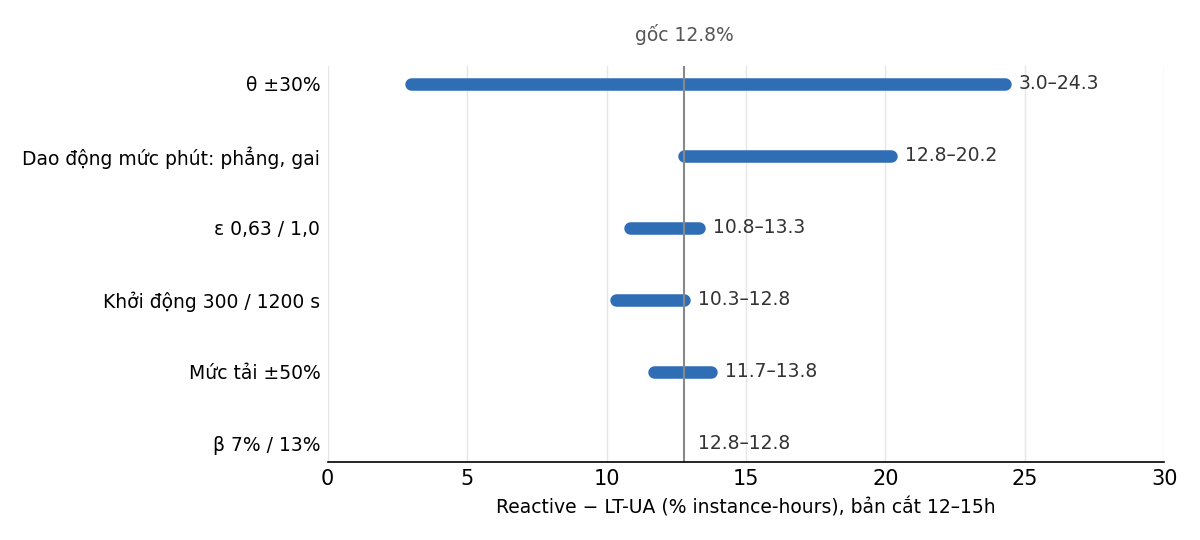
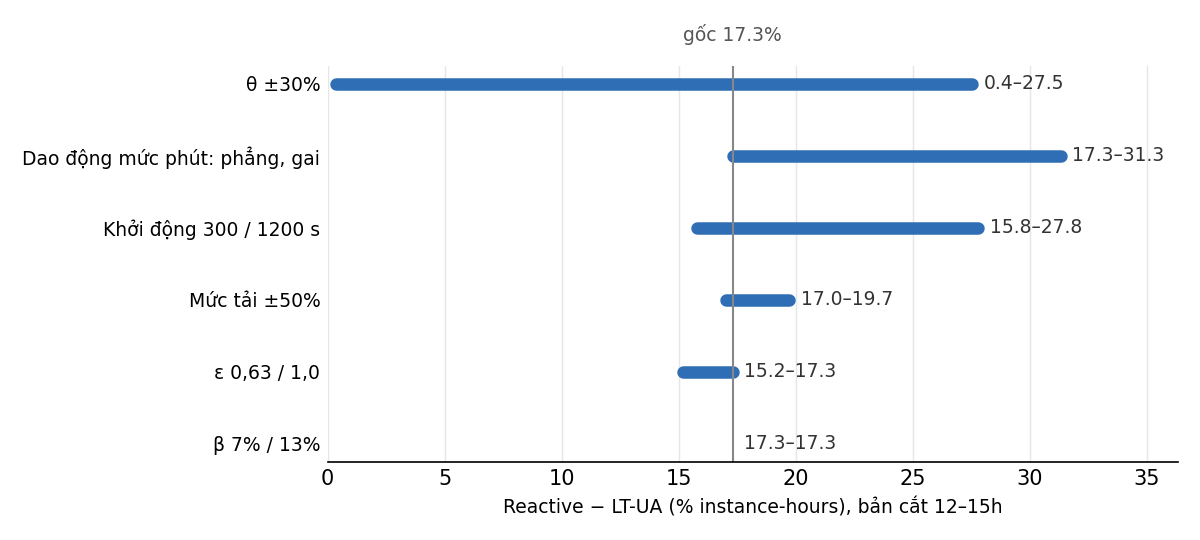
Dở dang, tiếp tục sau: sens/sens2 v2.1, D11a, D33, luật 10, README bước 1
- SENSITIVITY.md/.csv/.png theo sens/sens2 v2.1 (31 bài, 0 lỗi); plot_sensitivity.py: trục x tự giãn
- RESULTS: §7.2.7 bản cắt, Phụ lục A khởi động 1200 s, Hạn chế 8
- DECISIONS: D33 (luật khởi động week), D11a (bằng chứng D11 theo v2.1, D11 giữ nguyên)
- CLAUDE.md: luật 10 (file .md mới ở gốc phải được duyệt)
- README: bước 1 về main (PR #2 đã gộp)

Dở dang: doi_chieu chưa chạy lại sau sửa (lần gần nhất 828 số, 0 sai);
dọn ổ và chuyển file .md chờ duyệt. Chưa push, để chung PR tài liệu thứ Tư.

diff --git a/experiments/plot_sensitivity.py b/experiments/plot_sensitivity.py
@@ -19,7 +19,7 @@ ax.axvline(base, color="#888888", lw=1)
 ax.text(base, len(rows) - 0.4, f"gốc {base:.1f}%", ha="center", fontsize=9, color="#555555")
 ax.set_yticks(range(len(rows)), [r[0] for r in rows], fontsize=9)
 ax.set_xlabel("Reactive − LT-UA (% instance-hours), bản cắt 12–15h", fontsize=9)
-ax.set_xlim(0, 30)
+ax.set_xlim(0, max(30, max(r[2] for r in rows) + 5))
 ax.grid(axis="x", color="#E6E6E6", lw=0.7)
 ax.set_axisbelow(True)
 for s in ("top", "right", "left"):

diff --git a/SENSITIVITY.md b/SENSITIVITY.md
@@ -1,9 +1,9 @@
 # SENSITIVITY – Pha 3
 
-**Số v2 (`D:/SageServe_results/v2/sens`, `.../sens2`), chưa có bản v2.1:** 21 bài `sens` và 10 bài `sens2` đang chạy lại v2.1 — PR sau.
+**Số v2.1** (code tag `v2.1-fix`, 2c70582; kết quả ở `E:/SageServe_results_v21/sens`, `.../sens2`; chạy xong 8/11/2026, 31 bài, 0 lỗi). Số v2 cũ có trong git history của file này.
 
 Bản cắt 12–15h của `composed_day_3regions_v2`, A100, θ `data/theta_tps_v2.csv`, bỏ giờ đầu, mỗi lần đổi một yếu tố. Số đầy đủ: `SENSITIVITY.csv`.
-Chạy: `python experiments/make_sens_traces.py` (sinh `traces/sens_*.csv`; sha256 sens_flat 9d90fa80…, sens_spike 68846dae…, sens_rate50 7e1316bc…, sens_rate150 13f5f69c…, sens_burst_in d2d3372c…, sens_burst_out 61afbf20…), rồi `PY=<python> bash experiments/run_sens.sh sens` (21 bài, ~3 giờ mô phỏng mỗi bài; biến `SAGE_SPIN_UP`, `SAGE_WAIT`, `SAGE_BETA` đặt trong script). Phân tích: `python experiments/analyze_sensitivity.py D:/SageServe_results/v2/sens --out SENSITIVITY.csv`; biểu đồ: `python experiments/plot_sensitivity.py SENSITIVITY.csv SENSITIVITY.png`.
+Chạy: `python experiments/make_sens_traces.py` (sinh `traces/sens_*.csv`; sha256 sens_flat 9d90fa80…, sens_spike 68846dae…, sens_rate50 7e1316bc…, sens_rate150 13f5f69c…, sens_burst_in d2d3372c…, sens_burst_out 61afbf20…), rồi `PY=<python> bash experiments/run_sens.sh sens E:/SageServe_results_v21/sens` (21 bài, ~3 giờ mô phỏng mỗi bài; biến `SAGE_SPIN_UP`, `SAGE_WAIT`, `SAGE_BETA` đặt trong script). Phân tích (chạy ở gốc repo): `python experiments/analyze_sensitivity.py E:/SageServe_results_v21/sens --out SENSITIVITY.csv`; biểu đồ: `python experiments/plot_sensitivity.py SENSITIVITY.csv SENSITIVITY.png`.
 
 ![Độ nhạy](SENSITIVITY.png)
 
@@ -11,40 +11,53 @@ Chạy: `python experiments/make_sens_traces.py` (sinh `traces/sens_*.csv`; sha2
 
 | Yếu tố | Mức | Reactive IH | LT-UA IH | Khoảng cách tổng | Llama-2 | Bloom | Lãng phí R → U (instance-hours) |
 |---|---|---:|---:|---:|---:|---:|---:|
-| Gốc | | 191,50 | 167,00 | **12,8%** | 12,9% | 15,7% | 2,92 → 2,18 (−25%) |
-| d) θ | −30% | 191,50 | 185,75 | **3,0%** | 5,2% | 2,8% | 2,92 → 2,67 (−9%) |
-| d) θ | +30% | 191,50 | 145,00 | **24,3%** | 17,1% | 32,9% | 2,92 → 1,02 (−65%) |
-| a) Dao động phút | phẳng | 195,00 | 157,25 | 19,4% | 22,2% | 22,6% | 2,43 → 1,65 (−32%) |
-| a) Dao động phút | gai 1,77× | 204,25 | 163,00 | 20,2% | 8,6% | 29,0% | 4,04 → 1,78 (−56%) |
-| b) Khởi động | 300 s | 186,25 | 167,00 | 10,3% | 6,2% | 14,4% | 1,40 → 1,18 (−16%) |
-| b) Khởi động | 1200 s | 184,75 | 164,00 | 11,2% | 5,1% | 16,3% | 5,35 → 4,18 (−22%) |
-| c) Cooldown Reactive | chờ instance sẵn sàng | 182,50 | 167,00 | 8,5% | – | – | 1,81 → 2,18 |
-| d) ε | 0,63 | 191,50 | 166,00 | 13,3% | 17,6% | 14,6% | 2,92 → 0,86 (−70%) |
-| d) ε | 1,0 | 191,50 | 170,75 | 10,8% | 9,8% | 13,8% | 2,92 → 2,80 (−4%) |
-| d) β | 7% / 13% | 191,50 | 167,00 | 12,8% | 12,9% | 15,7% | không đổi |
-| e) Mức tải | ×0,5 | 114,50 | 98,75 | 13,8% | 22,0% | 16,2% | 0,66 → 0,20 (−70%) |
-| e) Mức tải | ×1,5 | 265,00 | 234,00 | 11,7% | 5,3% | 15,9% | 4,08 → 4,25 (+4%) |
+| Gốc | | 200,75 | 166,00 | **17,3%** | 15,9% | 21,6% | 3,25 → 2,19 (−33%) |
+| d) θ | −30% | 200,75 | 200,00 | **0,4%** | 2,1% | −0,2% | 3,25 → 3,75 (+16%) |
+| d) θ | +30% | 200,75 | 145,50 | **27,5%** | 16,9% | 37,6% | 3,25 → 1,01 (−69%) |
+| a) Dao động phút | phẳng | 227,50 | 156,25 | 31,3% | 21,4% | 40,1% | 4,66 → 1,69 (−64%) |
+| a) Dao động phút | gai 1,77× | 236,50 | 162,50 | 31,3% | 16,4% | 41,8% | 5,11 → 1,85 (−64%) |
+| b) Khởi động | 300 s | 197,75 | 166,50 | 15,8% | 11,7% | 20,8% | 1,66 → 1,22 (−26%) |
+| b) Khởi động | 1200 s | 225,75 | 163,00 | 27,8% | 12,8% | 37,4% | 9,35 → 4,22 (−55%) |
+| c) Cooldown Reactive | chờ instance sẵn sàng | 192,00 | 166,00 | 13,5% | – | – | 2,18 → 2,19 |
+| d) ε | 0,63 | 200,75 | 168,50 | 16,1% | 11,8% | 21,2% | 3,25 → 0,91 (−72%) |
+| d) ε | 1,0 | 200,75 | 170,25 | 15,2% | 11,8% | 19,8% | 3,25 → 2,81 (−13%) |
+| d) β | 7% / 13% | 200,75 | 166,00 | 17,3% | 15,9% | 21,6% | không đổi |
+| e) Mức tải | ×0,5 | 121,75 | 97,75 | 19,7% | 22,7% | 26,4% | 1,31 → 0,20 (−85%) |
+| e) Mức tải | ×1,5 | 283,50 | 235,25 | 17,0% | 10,0% | 22,1% | 1,88 → 4,23 (+125%) |
+
+Dòng c) chỉ chạy Reactive. LT-UA lấy từ dòng gốc vì LT-UA không dùng cooldown Reactive.
 
 ## Kết luận
 
-- **θ chi phối:** dao động 21,3 điểm, gấp gần 3 lần yếu tố đứng sau. Dao động phút 7,4 điểm và không đơn điệu; cooldown 4,3 điểm; ε, thời gian khởi động và mức tải mỗi yếu tố dưới 3 điểm; β không đổi kết quả vì phần cộng thêm rất nhỏ so với đỉnh dự báo (ví dụ ±10 TPM trên 122.000 TPM).
-- **Theo luật Pha 3:** (a) không chi phối và trace đạt T6 nên **không sửa trace**. θ chi phối nên kiểm lại Pha 2: `benchmark_theta.py` đúng định nghĩa §2.1 nhưng bài báo không cho mức latency mục tiêu, tải đo hay bảng θ. **Loại C**, giữ θ đo được, không chỉnh để tăng tiết kiệm.
-- **Giới hạn:** bản cắt 12–15h không có giờ 5–9 khó nhất nên SLA gần như không đổi ở mọi mức θ. Không suy từ đây rằng θ +30% an toàn: θ đo theo tỉ lệ cả ngày (Bloom 528, Llama-2 1315, cao hơn 37–35% so với v2) từng cho TTFT P95 Llama-2 7073 s trên trace v1.
+- **θ vẫn chi phối:** khoảng cách dao động 27,1 điểm, gần gấp 2 yếu tố đứng sau (v2: 21,3 điểm, gần gấp 3 lần). Hai yếu tố đứng sau:
+  - Dao động phút: 14,0 điểm. Không đơn điệu: cả dạng phẳng lẫn dạng gai đều cho khoảng cách lớn hơn gốc.
+  - Thời gian khởi động: 12,0 điểm (v2: dưới 3 điểm).
+
+  Cooldown 3,8 điểm; mức tải 2,7; ε 2,1. β không đổi kết quả vì phần cộng thêm rất nhỏ so với đỉnh dự báo (ví dụ ±10 TPM trên 122.000 TPM).
+- **Đổi so với v2:** sửa cooldown (K1, D30) làm Reactive co giãn nhiều hơn: IH gốc 191,50 → 200,75, LT-UA gần như không đổi (167,00 → 166,00). Vì vậy mọi khoảng cách tăng. Hai yếu tố làm Reactive tăng giờ máy mạnh nhất, khởi động 1200 s và dạng phút phẳng/gai, nay tăng khoảng cách nhiều hơn hẳn trước.
+- **Theo luật Pha 3 (D11):**
+  - (a) vẫn không chi phối và trace đạt T6, nên **không sửa trace**.
+  - θ chi phối nên đã kiểm lại Pha 2: `benchmark_theta.py` đúng định nghĩa §2.1, nhưng bài báo không cho mức latency mục tiêu, tải đo hay bảng θ. **Loại C:** giữ θ đo được, không chỉnh để tăng tiết kiệm.
+
+  Bằng chứng ghi trong D11 là số v2 (“các yếu tố khác dưới 5 điểm”). Ở v2.1, thời gian khởi động 12,0 điểm và dao động phút 14,0 điểm. Quyết định không đổi.
+- **Giới hạn:** bản cắt 12–15h không có giờ 5–9, là các giờ khó nhất, nên SLA gần như không đổi ở mọi mức θ. Không suy từ đây rằng θ +30% an toàn: θ đo theo tỉ lệ cả ngày (Bloom 528, Llama-2 1315, cao hơn v2 37% và 35%) từng cho TTFT P95 Llama-2 7073 s trên trace v1.
 
 ## Lệch còn lại
 
-**Burst (`D:/SageServe_results/v2/sens2`, chạy `PY=<python> bash experiments/run_sens.sh sens2` (10 bài, gồm `SAGE_NO_DOWN=1` cho LT-UA tắt luật giảm), phân tích `python experiments/analyze_burst_cut.py D:/SageServe_results/v2/sens2`).** Một burst ×8 dài 10 phút:
+**Burst.** Kết quả ở `E:/SageServe_results_v21/sens2`. Chạy: `PY=<python> bash experiments/run_sens.sh sens2 E:/SageServe_results_v21/sens2` (10 bài, gồm `SAGE_NO_DOWN=1` cho LT-UA tắt luật giảm). Phân tích: `python experiments/analyze_burst_cut.py E:/SageServe_results_v21/sens2`. Một burst ×8 dài 10 phút:
 
 | Vị trí | Chiến lược | IH | Vi phạm Llama-2 | Vi phạm Bloom | Bộ nhớ Llama-2 hồi về < 70% |
 |---|---|---:|---:|---:|---:|
-| Trong 20 phút cuối giờ | Reactive | 316,5 | 35,5% | 42,2% | 938 s |
-| | LT-U | 166,0 | 59,4% | 59,5% | 4800 s |
-| | **LT-UA** | 244,0 | **39,4%** | **49,2%** | **1332 s** |
-| Ngoài 20 phút cuối giờ | Reactive | 337,5 | 31,6% | 41,0% | 966 s |
-| | LT-U = LT-UA | 166,5 | 58,5% | 63,4% | 6600 s |
+| Trong 20 phút cuối giờ | Reactive | 337,0 | 34,75% | 42,60% | 898 s |
+| | LT-U | 165,0 | 59,82% | 58,55% | 4800 s |
+| | **LT-UA** | 239,5 | **39,37%** | **47,80%** | **1524 s** |
+| Ngoài 20 phút cuối giờ | Reactive | 348,5 | 31,99% | 39,13% | 948 s |
+| | LT-U = LT-UA | 165,5 | 66,81% | 64,49% | 6600 s |
 
-LT-UA hơn LT-U đúng như §7.2.7 khi burst rơi vào cửa sổ, và trùng hoàn toàn với LT-U khi burst nằm ngoài. Bài báo không cho thời điểm burst: **loại C**. Vi phạm cao hơn Reactive là hệ quả của thiết kế: LT-I, LT-U không vượt mục tiêu ILP (§7.2.7). Tắt luật ≤ 0,5× không đổi kết quả trên hai bài này.
+- LT-UA hơn LT-U đúng như §7.2.7 khi burst rơi vào cửa sổ, và trùng hoàn toàn với LT-U khi burst nằm ngoài (giống v2). Bài báo không cho thời điểm burst: **loại C**.
+- Vi phạm cao hơn Reactive là hệ quả của thiết kế: LT-I, LT-U không vượt mục tiêu ILP (§7.2.7).
+- Tắt luật ≤ 0,5× không đổi kết quả trên hai bài này.
 
-**A100 và H100.** Bản cắt: A100 12,8%, H100 13,5% (Llama-2 4,3%, Bloom 21,3%). Tăng thời gian khởi động A100 lên 1200 s cho 11,2%, không tăng tiết kiệm như lý giải của Phụ lục A ("longer model loading times"). Bài báo không cho thời gian tải A100: **loại C**.
+**A100 và H100.** Bản cắt: A100 17,3%, H100 18,6% (Llama-2 15,0%, Bloom 25,5%), A100 vẫn không hơn H100. Tăng thời gian khởi động A100 lên 1200 s cho 27,8%, tức khoảng cách **tăng** so với gốc (v2: 11,2%, không tăng). Điều này hợp với lý giải của Phụ lục A (“longer model loading times”): lãng phí khi tăng máy của Reactive lên 9,35 instance-hours (gốc 3,25). Bài báo không cho thời gian tải A100: **loại C**.
 
 **Cuối tuần:** cần bài `week` của Pha 4, sẽ ghi vào `RESULTS.md`.

diff --git a/RESULTS.md b/RESULTS.md
@@ -31,14 +31,14 @@
 | §7.2.6: PF thấp nhất cho IW-F, IW-N trả giá | 24% và 60% | hướng | IW-F 34,1% (EDF 34,0% thấp hơn); IW-N 3,3% (cao nhất) (v2.1 trùng v2: `compare_runs` 0 khác biệt cả 8 bài sched) | ½ | C | như trên |
 | §7.2.6: DPA ở giữa | 28% và 38% | hướng | IW-F 34,9% (cao nhất), IW-N 2,0% (thấp nhất) (v2.1 trùng v2: `compare_runs` 0 khác biệt cả 8 bài sched) | ✘ | C | như trên; nguyên nhân: dòng dưới |
 | Nguyên nhân §7.2.6 | – | đo | 19,9% request IW-F trượt 1 s ngay cả khi không chờ (prefill tối thiểu > 1 s: Bloom 27,8%, Llama-2 14,0%), không lập lịch nào gỡ được. Các chính sách chỉ khác nhau ≤ 1,2 điểm. Bài báo không cho năng lực cụm (nhóm chọn 0,75x Reactive) và τ_p, τ_n | – | C | `python experiments/analyze_sched_floor.py $R/sched/sla60 traces/composed_day_3regions_12to15_v2.csv` |
-| §7.2.7, Fig. 16a: LT-UA xử lý burst tốt hơn LT-I, LT-U | bộ nhớ hồi nhanh hơn | hướng | v2.1: vi phạm IW Llama-2 cả ngày LT-UA 38,56% so với LT-U 38,62% / LT-I 43,89%; TTFT Q3 604 so với 610 / 899 s; P95 2779 so với 2488 / 2701 s (LT-UA kém nhất). Hồi bộ nhớ Llama-2 về < 70%: sau burst 1 cả ba không hồi trong cửa sổ 3 giờ (10.798 s); sau burst 2: 3090 so với 4832 / 5180 s; sau burst 3: 4586 so với 4624 / 5336 s (v2: LT-UA thua LT-U ở burst 3). Reactive hồi trong 818–924 s, nhanh hơn mọi LT. **(số v2, chờ chạy lại v2.1)** Bản cắt: chỉ hơn khi burst rơi vào 20 phút cuối giờ | ½ | C (D12) | `run.sh burst`; `S4 burst`; `python experiments/analyze_burst_day.py $R/burst`. Bản cắt: `python experiments/make_sens_traces.py`; `bash experiments/run_sens.sh sens2`; `python experiments/analyze_burst_cut.py D:/SageServe_results/v2/sens2` (SENSITIVITY.md) |
+| §7.2.7, Fig. 16a: LT-UA xử lý burst tốt hơn LT-I, LT-U | bộ nhớ hồi nhanh hơn | hướng | v2.1: vi phạm IW Llama-2 cả ngày LT-UA 38,56% so với LT-U 38,62% / LT-I 43,89%; TTFT Q3 604 so với 610 / 899 s; P95 2779 so với 2488 / 2701 s (LT-UA kém nhất). Hồi bộ nhớ Llama-2 về < 70%: sau burst 1 cả ba không hồi trong cửa sổ 3 giờ (10.798 s); sau burst 2: 3090 so với 4832 / 5180 s; sau burst 3: 4586 so với 4624 / 5336 s (v2: LT-UA thua LT-U ở burst 3). Reactive hồi trong 818–924 s, nhanh hơn mọi LT. Bản cắt (v2.1): chỉ hơn khi burst rơi vào 20 phút cuối giờ (vi phạm Llama-2 LT-UA 39,37% so với LT-U 59,82%; ngoài cửa sổ LT-UA trùng LT-U) | ½ | C (D12) | `run.sh burst`; `S4 burst`; `python experiments/analyze_burst_day.py $R/burst`. Bản cắt: `python experiments/make_sens_traces.py`; `bash experiments/run_sens.sh sens2 E:/SageServe_results_v21/sens2`; `python experiments/analyze_burst_cut.py E:/SageServe_results_v21/sens2` (SENSITIVITY.md) |
 | §7.2.7: burst, tiết kiệm instance-hours | – | hướng | Llama-2 469,75 → 306,25 / 323,25 / 321,75 (−34,8 / −31,2 / −31,5%), tổng −28,6 / −20,6 / −24,3% (v2: −29,9 / −26,0 / −26,6%) | ✔ | – | `S4 burst` |
 | §7.2.7, Fig. 16b: cả tuần, LT < Reactive | "insights ... also apply" | hướng | **(số v2, chờ chạy lại v2.1)** Llama-2 −14,0 / −11,6 / −13,2%; tổng −12,5 / −5,4 / −6,5% | ✔ | – | `run.sh week`; `S4 week` |
 | §7.2.7: LT-U ≈ LT-UA ngày thường, khác nhẹ khi vào cuối tuần | – | hướng | **(số v2, chờ chạy lại v2.1)** Ngày thường: −3,3 so với −4,1% (cách 0,8 điểm); thứ Bảy, Chủ Nhật: −13,8 so với −15,7% (cách 1,9 điểm). Vi phạm IW Chủ Nhật: LT-UA 7,4%, LT-U 6,5% | ✔ | – | `python experiments/analyze_week.py $R/week` |
 | §7.2.7: Reactive có độ trễ kém hơn (cả tuần) | Fig. 16b | hướng | **(số v2, chờ chạy lại v2.1)** Reactive tốt hơn: TTFT P95 Llama-2 2,56 so với 2,86 / 2,87 s, vi phạm IW 7,0 so với 8,1 / 8,5% | ✘ | C | `S4 week`; `python experiments/analyze_hourly_miss.py $R/week` |
 | §7.2.7, Nov 2024: instance-hours Llama-2 | 302 → 227 / 248 / 233 (−24,8 / −17,9 / −22,8%) | hướng; biên độ | ARIMA: 276,5 (0,92x) → 175 / 185 / 184,75 (−36,7 / −33,1 / −33,2%; 1,48x / 1,85x / 1,45x); tổng −32,5 / −28,4 / −28,9%; thứ tự LT-I ≥ LT-UA ≥ LT-U đạt (LT-UA hơn LT-U 0,09 điểm). Hạ theo dòng chính: độ trễ ✘ (dòng dưới); với oracle chỉ còn −10,1 / −10,7 / −10,8% (0,41–0,60x), tổng +0,6 / −1,6 / −1,6%. (v2: Reactive 254, −31,1 / −27,2 / −27,2%; oracle −2,2 / −4,4 / −3,6%) | ½ | C | `run.sh nov2024`; `S4 nov2024`; `ORC` |
 | §7.2.7, Nov 2024: độ trễ (bài báo không nêu; áp tiêu chí ≤ +10%) | – | hướng | TTFT P95 Llama-2 5,21 → 1179 / 1145 / 1145 s; vi phạm SLA một tầng 60 s (D4): Reactive 0,09%, LT-U = LT-UA 30,47% (v2: 5,2 → 1160 s; 0,03% và 30,1%) | ✘ | C | `S4 nov2024`; `python experiments/analyze_hourly_miss.py $R/nov2024` |
-| Phụ lục A: A100 tiết kiệm nhiều hơn H100 | A100 LT-UA −28,2% | hướng; biên độ | A100 (trace chính, ARIMA) LT-UA Llama-2 −20,2% (0,72x), tổng −8,7%; H100 LT-UA −26,4%, tổng −11,5%. A100 không hơn H100 (v2: A100 −14,0%, H100 −17,0%). **(số v2, chờ chạy lại v2.1)** Khởi động A100 1200 s (Pha 3): 11,2%, không tăng | ✘ | C (không có thời gian tải A100) | `run.sh h100`; `S4 h100`; `SENSITIVITY.md`. Dòng khởi động 1200 s: `SAGE_SPIN_UP=1200 python experiments/run_patched.py performance_model.db_path=data/perf_model_4models.csv end_time=10800 trace=random_trace trace.filename=composed_day_3regions_12to15_v2 controller=us3-4models global_arbiter.arima_traces=traces/forecasts/composed_day_3regions_12to15_v2 global_arbiter.theta_file=data/theta_tps_v2.csv output_dir=D:/SageServe_results/v2/sens/su1200/reactive long_term_scaling=False` và cùng lệnh với `output_dir=.../su1200/lt_ua long_term_scaling=True` + `controller.regions.{0,1,2}.arbiter=global_arbiter_ARIMA_checking`; `python experiments/analyze_sensitivity.py D:/SageServe_results/v2/sens` |
+| Phụ lục A: A100 tiết kiệm nhiều hơn H100 | A100 LT-UA −28,2% | hướng; biên độ | A100 (trace chính, ARIMA) LT-UA Llama-2 −20,2% (0,72x), tổng −8,7%; H100 LT-UA −26,4%, tổng −11,5%. A100 không hơn H100 (v2: A100 −14,0%, H100 −17,0%). Bản cắt (v2.1): khởi động A100 1200 s cho khoảng cách Reactive − LT-UA 27,8% so với 17,3% ở gốc, tức **tăng** (v2: 11,2%, không tăng). Bản cắt A100 17,3% vẫn thấp hơn H100 18,6% | ✘ | C (không có thời gian tải A100) | `run.sh h100`; `S4 h100`; `SENSITIVITY.md`. Dòng khởi động 1200 s: `SAGE_SPIN_UP=1200 python experiments/run_patched.py performance_model.db_path=data/perf_model_4models.csv end_time=10800 trace=random_trace trace.filename=composed_day_3regions_12to15_v2 controller=us3-4models global_arbiter.arima_traces=traces/forecasts/composed_day_3regions_12to15_v2 global_arbiter.theta_file=data/theta_tps_v2.csv output_dir=E:/SageServe_results_v21/sens/su1200/reactive long_term_scaling=False` và cùng lệnh với `output_dir=.../su1200/lt_ua long_term_scaling=True` + `controller.regions.{0,1,2}.arbiter=global_arbiter_ARIMA_checking`; `python experiments/analyze_sensitivity.py E:/SageServe_results_v21/sens` |
 | Phụ lục A: IW:NIW 9:1 và 1:1 vẫn tiết kiệm | LT-UA −26,3% và −22% | hướng; biên độ | Llama-2 9:1: 388,25 → 308,25 / 316,0 / 310,75 (−20,6 / −18,6 / −20,0%); 1:1: 386,5 → 309,0 / 321,25 / 305,5 (−20,1 / −16,9 / −21,0%). LT-UA so với bài báo 0,76x và 0,95x; tổng LT-UA −8,5% và −9,8%. Xu hướng 9:1 > 1:1 của bài báo không lặp lại (LT-UA 9:1 tiết kiệm ít hơn 1:1 khoảng 1,0 điểm). Đi kèm (không thuộc tiêu chí dòng này): TTFT P95 Llama-2 Reactive → LT-I / LT-U / LT-UA 2,60 → 272,18 / 11,95 / 11,38 s (9:1) và 2,64 → 76,35 / 3,38 / 8,67 s (1:1); ở 1:1 LT-I chỉ hoàn thành trong ngày 43,4% số request NIW Bloom của Reactive, nên tiết kiệm tổng −19,5% của LT-I ở 1:1 phần lớn đến từ NIW chưa phục vụ. (v2: Llama-2 −12,7% (0,48x) và −16,0% (0,73x); tổng −5,4% và −5,4%; chấm ½ vì 9:1 trượt biên độ.) Kiểm cơ chế (D18, số v2, không chạy lại ở v2.1): β = 5% / 15% (gốc 10%) ở 3:1 cho LT-UA Llama-2 −13,96 / −13,89% (gốc −13,96%), tổng −5,98 / −6,21%. Đổi < 1 điểm: cơ chế bộ đệm NIW của Phụ lục A gần như không tác động trong mô phỏng (β = 5% cho đúng cùng quyết định ILP như 10%) | ✔ | – | `run.sh niw_ratio`; `S4 niw9`, `S4 niw1`; `run.sh beta` (RESULTS_ROOT=$O; lệnh này chạy `SAGE_BETA=0.05` và `SAGE_BETA=0.15 python experiments/run_patched.py …`); `python analyze_s4.py $R/lt/reactive $O/beta/b0.05/lt_ua $O/beta/b0.15/lt_ua --skip_hours 1` |
 
 ## Hạn chế
@@ -50,7 +50,7 @@
 5. **§7.2.6 lập lịch (loại C):** các chính sách khác nhau ≤ 1,2 điểm vì ~20% request IW-F trượt 1 s ngay cả khi không chờ; bài báo không cho năng lực cụm, τ_p, τ_n.
 6. **Không kiểm được giả thuyết dao động Reactive của Fig. 13b (loại D):** `reactive_literal` sai logic (D21, D22).
 7. **Thiếu thông tin phần cứng/mô hình (loại D/C):** không có profile Llama 4 Scout (§7.2.5 dùng profile Llama-2); không có thời gian tải A100 (Phụ lục A).
-8. **Chưa chạy lại ở v2.1:** `week` (3 dòng §7.2.7 cả tuần), `sens`/`sens2` (bản cắt burst, khởi động 1200 s), Table 1 theo mức tải §4, β, `reactive_literal`. Các dòng đó ghi rõ "(số v2…)".
+8. **Chưa chạy lại ở v2.1:** `week` (3 dòng §7.2.7 cả tuần), Table 1 theo mức tải §4, β, `reactive_literal`. Các dòng đó ghi rõ "(số v2…)".
 
 ## Phụ lục: θ theo cận trên bài báo (nếu–thì)
 

diff --git a/DECISIONS.md b/DECISIONS.md
@@ -15,6 +15,7 @@ Loại lệch: A trace trượt TRACE_SPEC, B code sai bài báo, C bài báo th
 | D9 | 2/11/2026 | Đo lại θ cho phần tải v2 có đổi: Bloom trên `composed` (A100, H100, giờ 8; giờ 8 vẫn có tỉ lệ output/input cao nhất, 0,61), Bloom và Llama-2 trên `fork`. Các mô hình khác giữ θ cũ vì tải không đổi | `data/theta_tps_v2.csv`, `data/theta_tps_h100_v2.csv`, `data/theta_tps_fork_v2.csv` | `python benchmark_theta.py ... --hour 8` |
 | D10 | 2/11/2026 | Pha 2: 25 test mới khóa quy tắc §4, §6.1, §6.2, §6.4, §7.1, không phát hiện sai lệch loại B | `tests/test_paper_rules.py` | `python -m pytest tests/test_paper_rules.py` |
 | D11 | 2/11/2026 | Pha 3: θ chi phối khoảng cách Reactive − LT-UA, loại C, giữ θ đo được. Không sửa trace vì dao động phút không chi phối và trace đạt T6 | θ ±30%: 3,0–24,3%; dao động phút 12,8–20,2%; các yếu tố khác dưới 5 điểm | `python experiments/analyze_sensitivity.py D:/SageServe_results/v2/sens` |
+| D11a | 9/11/2026 | Cập nhật bằng chứng D11 theo số sens v2.1 (code `v2.1-fix`). **Quyết định D11 giữ nguyên:** θ vẫn chi phối, dao động phút không chi phối, không sửa trace, θ loại C. Câu "các yếu tố khác dưới 5 điểm" của D11 chỉ đúng với số v2: ở v2.1, thời gian khởi động 12,0 điểm, dao động phút 14,0 điểm | Khoảng dao động của khoảng cách tổng Reactive − LT-UA (gồm mức gốc 17,3%): θ ±30% 27,1 điểm (0,4–27,5%); dao động phút 14,0 điểm (17,3–31,3%); khởi động 300/1200 s 12,0 điểm (15,8–27,8%); cooldown 3,8; mức tải 2,7; ε 2,1; β 0. θ gần gấp 2 yếu tố đứng sau (v2: gần gấp 3) | `python experiments/analyze_sensitivity.py E:/SageServe_results_v21/sens --out SENSITIVITY.csv`; SENSITIVITY.md |
 | D12 | 2/11/2026 | Burst: LT-UA hơn LT-U chỉ khi burst rơi vào 20 phút cuối giờ, loại C (bài báo không cho thời điểm). Không đổi vị trí burst của `burst8_v2`, báo cả hai trường hợp | Trong cửa sổ: vi phạm Llama-2 39,4% so với 59,4%; ngoài cửa sổ: trùng nhau | `python experiments/analyze_burst_cut.py D:/SageServe_results/v2/sens2` |
 | D13 | 3/11/2026 | So tiết kiệm của LT theo Llama-2, không theo tổng 4 mô hình. Không đảo quyết định nào: đây là sửa cơ sở so sánh. Câu hỏi Pha 3 ("4–10% so với 20–24%") đã so tổng với số của Llama-2; theo Llama-2, khoảng cách là 14% so với 20–24% | §7.2.1: "aggregated across all the three regions for Llama-2 70B ... 24.21%, 19.65% and 23.38%"; Fig. 11: 362,25 / 274,5 / 291 / 277,5 cho đúng các tỉ lệ này | `S4 lt` (xem RESULTS.md) |
 | D14 | 3/11/2026 | Trace v2 đạt T8, T9 trên bài Reactive cả ngày; giữ đóng băng (D8) | `composed` A100: nhỏ nhất 6 máy, θ 435 / 844; H100: 5 máy, 562 / 1210; `fork`: 9 máy, 1062 / 2742; `fork_s4`: 10 máy, 1065 / 2806; 0 FAIL | `python qualify_trace.py <trace> --role ... --reactive $R/<bài>/reactive` |
@@ -37,3 +38,4 @@ Loại lệch: A trace trượt TRACE_SPEC, B code sai bài báo, C bài báo th
 | D30 | 7/11/2026 | **Quyết định nhóm** (trên `output/QUYET_DINH_NHOM.md`, số đo theo D29): (1) **Giữ θ repo** (D9). Hạn chế θ xếp **loại C**: bài báo không cho loại request và độ trễ mục tiêu dùng để benchmark; θ repo của Bloom (A100) là 386,42, §2.1 ghi 50–177. Phụ lục nếu–thì ở D32. (2) **Sửa cooldown theo biến thể B** cho **mọi chiến lược**: "scaling event" là một lần gọi `scale()` làm số instance của endpoint đổi (tính cả instance pending, đang khởi động, đang lấy lại spot); mốc 15 s tính từ lúc quyết định đó, không chờ instance sẵn sàng; lần gọi không co giãn hoặc bị chặn không đặt lại mốc; biên giữ `>`. Theo patch T24 của Đoàn Việt Đức (patch gốc chỉ áp cho Reactive). Kèm các sửa khác của patch: NIW chỉ cấp khi < 60% / < 50%, chặn chia 0 khi endpoint chưa có máy sẵn sàng, `run.sh` trả mã lỗi, `requirements.txt`. Mọi số trong RESULTS.md chạy lại trên commit `v2.1-fix` | Bảng 2c (D29, `composed_day_3regions_12to15_v2`, bỏ giờ 0, A = main): Reactive A 48,25 / 191,50 IH (Llama-2 / tổng), TTFT P95 Bloom 4,57 s; B (cooldown) 48,75 / 200,75 (+1,04% / +4,83%), lấy lại spot Llama-2 8 → 14; LT-UA A 42,00 / 167,00, B 41,00 / 166,00 (−2,38% / −0,60%); C (θ T29) LT-UA 33,75 / 123,75 (−19,6% / −25,9%), TTFT P95 Bloom 6,10 → 1026,0 s, vi phạm SLA Bloom 20,1 → 52,2%; D LT-I TTFT P95 6580 / 4587 s, vi phạm ~98%. Reactive C trùng A, D trùng B (`compare_runs`, 255 file). ILP offline cả ngày: θ T29 cho 0,30x instance-giờ mục tiêu | `D:/SageServe_results/quyet_dinh/` (`bang_2c.csv`, `ilp_offline/`, `scripts/B_cooldown.patch`) |
 | D31 | 7/11/2026 | **α: giữ α = 10 cho mô phỏng; không dùng α của T29.** Kiểm theo yêu cầu: ILP offline cả ngày (`composed_day_3regions_v2`, giờ 1–23, θ repo v2 và θ H100 v2, ε = 0,9, khởi động 600 s) với α = 10, α = 20,369 (A100, giá EC2 Capacity Blocks của T29) và α = 47,757 (H100). Mỗi bài chỉ 1 loại GPU nên mục tiêu tỉ lệ thuận với α và chi phí tối ưu như nhau, nhưng **nghiệm có đổi**: 4/552 ô (Llama-2, giờ 16–17) chia máy khác giữa vùng 0 và 1 (6/8 → 5/9, 5/6 → 4/7), tổng instance không đổi (1410; H100 1051). Đây là chọn giữa các nghiệm cùng chi phí của CBC, không có căn cứ bài báo để chọn bên nào, nên không đổi α (đổi sẽ làm đổi kết quả mà không có lý do). α của T29 (giá VM công khai, đúng chữ §5) chỉ dùng khi quy đổi giờ máy ra tiền trong báo cáo | §5 "αk using publicly available GPU VM costs"; T29 `vm_cost_startup.csv` | `ALPHA=<α> python -I D:/SageServe_results/v21/alpha_d31/ilp_alpha.py . . <thư mục ra>`; kết quả `D:/SageServe_results/v21/alpha_d31/` |
 | D32 | 7/11/2026 | **Phụ lục θ nếu–thì**, ghi TRƯỚC khi chạy (07/11/2026 22:53). Chỉ báo cáo, **không thay kết quả chính**. θ Bloom = 177 TPS (cận trên Q1–Q3 của Bloom trên 8× A100 ở §2.1); mô hình khác giảm cùng tỉ lệ k = 177 / 386,42 = 0.458051 so với θ repo v2 (`data/theta_tps_v2.csv`), làm tròn 2 chữ số: bloom-176b 177.00, llama2-70b 447.18, llama3.1-8b 1899.06, llama3.2-3b 7759.68, llama4-sub 447.18. File riêng `data/theta_tps_v2_177.csv` (file θ gốc giữ nguyên). Chạy Reactive, LT-I, LT-U, LT-UA cả ngày trên `composed_day_3regions_v2`, override như `run.sh lt`, chỉ đổi `global_arbiter.theta_file`, vào `D:/SageServe_results/v21/theta177/`, code `v2.1-fix`. **Một vòng duy nhất, không thử mức θ khác.** Báo IH Llama-2 / Bloom / tổng, tiết kiệm so với Reactive cùng θ, TTFT P95, vi phạm SLA, so với θ repo (`v21/lt`) | §2.1 "Bloom-176B … 50–177 TPS … on 8× Nvidia A100 GPUs"; D30 (θ loại C) | `data/theta_tps_v2_177.csv`; xem RESULTS.md "Phụ lục: θ theo cận trên bài báo (nếu–thì)" |
+| D33 | 8/11/2026 | **Luật khởi động bài week (người dùng), ghi TRƯỚC khi chạy week v2.1; chỉ áp cho họ `week`.** (1) Khởi động lệch: bài week kế tiếp chỉ khởi động khi mọi bài week đang chạy đã qua đỉnh khởi động, nghĩa là RSS < 1,2 GB VÀ giờ mô phỏng ≥ 3600 s. (2) Ngân sách lúc khởi động: RAM máy ngoài mô phỏng + RSS hiện tại của các bài đang chạy + 4,23 GB cho bài mới ≤ min(85% tổng RAM, tổng RAM − 2 GB). (3) Cổng an toàn giữ nguyên: một bài week đã qua đỉnh khởi động mà RSS > 1,5 GB, hoặc RAM máy > 90%, thì không khởi động thêm cho tới khi RAM máy < 80%. Thay luật week cũ (ước mọi bài = đỉnh x 1,15 theo ngoại suy 30 phút) chỉ cho `week`; các họ khác giữ luật cũ. Luật này chỉ về lịch chạy, không đổi tham số hay trace của bài | Bài đo 45 phút (week/reactive, `v2.1-fix`, 8/11 19:06–19:51, kết quả không dùng): đỉnh 3,68 GB trong 3 phút đầu (nạp trace, trước khi có giờ mô phỏng); tại phút 3 RSS 0,36 GB, giờ mô phỏng 8266 s; phút 42 RSS 0,96 GB, giờ mô phỏng 35,2 h; 4,23 GB = 1,15 x 3,68 GB | `E:/SageServe_results_v21/do_ram_week_rss.csv`; `output/TIEN_DO_FIX.md` (dòng 'Đo RAM week: kết quả') |

diff --git a/README.md b/README.md
@@ -9,7 +9,7 @@ Viết cho người không đọc code. Mọi lệnh chạy trong **Git Bash** (
 
 | Bước | Lệnh | Mất bao lâu | Đúng khi |
 |---|---|---|---|
-| 1. Lấy code | Lần đầu: `git clone https://github.com/KatoTheFirst/SageServe-Group-4.git && cd SageServe-Group-4`. Đã có repo: `git checkout main && git pull`. Khi PR #2 chưa được gộp vào `main`, số v2.1 nằm ở nhánh `pha4-6-v2`: chạy thêm `git checkout pha4-6-v2` | dưới 1 phút (đo: 35 s) | Thư mục có `run.py`, `RESULTS.md` |
+| 1. Lấy code | Lần đầu: `git clone https://github.com/KatoTheFirst/SageServe-Group-4.git && cd SageServe-Group-4`. Đã có repo: `git checkout main && git pull` | dưới 1 phút (đo: 35 s) | Thư mục có `run.py`, `RESULTS.md` |
 | 2. Môi trường Python 3.11 | Cách A (venv): `py -3.11 -m venv .venv && source .venv/Scripts/activate` (không có `py`: thay `py -3.11` bằng đường dẫn tới `python.exe` 3.11). Cách B (conda): `conda create -n sim python=3.11 && conda activate sim`. Sau đó: `pip install -r requirements.txt` và `export PYTHONIOENCODING=utf-8` | khoảng 5 phút (đo: tạo venv 15 s, cài 4 phút 19 s khi pip đã có sẵn gói tải về; lần đầu có thể lâu hơn) | `python --version` in `Python 3.11.x`; `pip` không báo `ERROR` |
 | 3. Trace v2 và dự báo | 5 lệnh ngay dưới bảng | khoảng 1 phút (đo: 58 s) | Mọi dòng in `OK` (12 trace, 3 file θ, rồi các file dự báo), không dòng nào `FAILED` |
 | 4. Kiểm thử | `python -m pytest` | khoảng 5 phút (đo: 5 phút 9 giây) | Dòng cuối `101 passed`, không có `failed` |

diff --git a/CLAUDE.md b/CLAUDE.md
@@ -12,3 +12,4 @@
 6. **Việc ngoài danh sách đã duyệt: hỏi trước.** Kể cả bước phụ "dọn cho gọn"; không xóa hay ghi đè dữ liệu kết quả khi chưa được duyệt.
 7. **Một thư mục kết quả, một tiến trình ghi.** Trước khi khởi động một bài hoặc pytest, kiểm không có tiến trình cùng đích đang chạy; mỗi thư mục kết quả chỉ một tiến trình ghi.
 8. **Bị từ chối quyền thì dừng.** Lệnh bị từ chối quyền thì dừng và hỏi tôi; không dùng công cụ/shell khác để làm cùng việc.
+10. **Không tạo file .md mới ở thư mục gốc repo khi chưa được duyệt.** Kế hoạch, nhật ký, báo cáo tạm của phiên ghi vào `output/` (không đẩy lên repo). Tài liệu lâu dài đặt trong `docs/` và phải được dẫn từ README.
